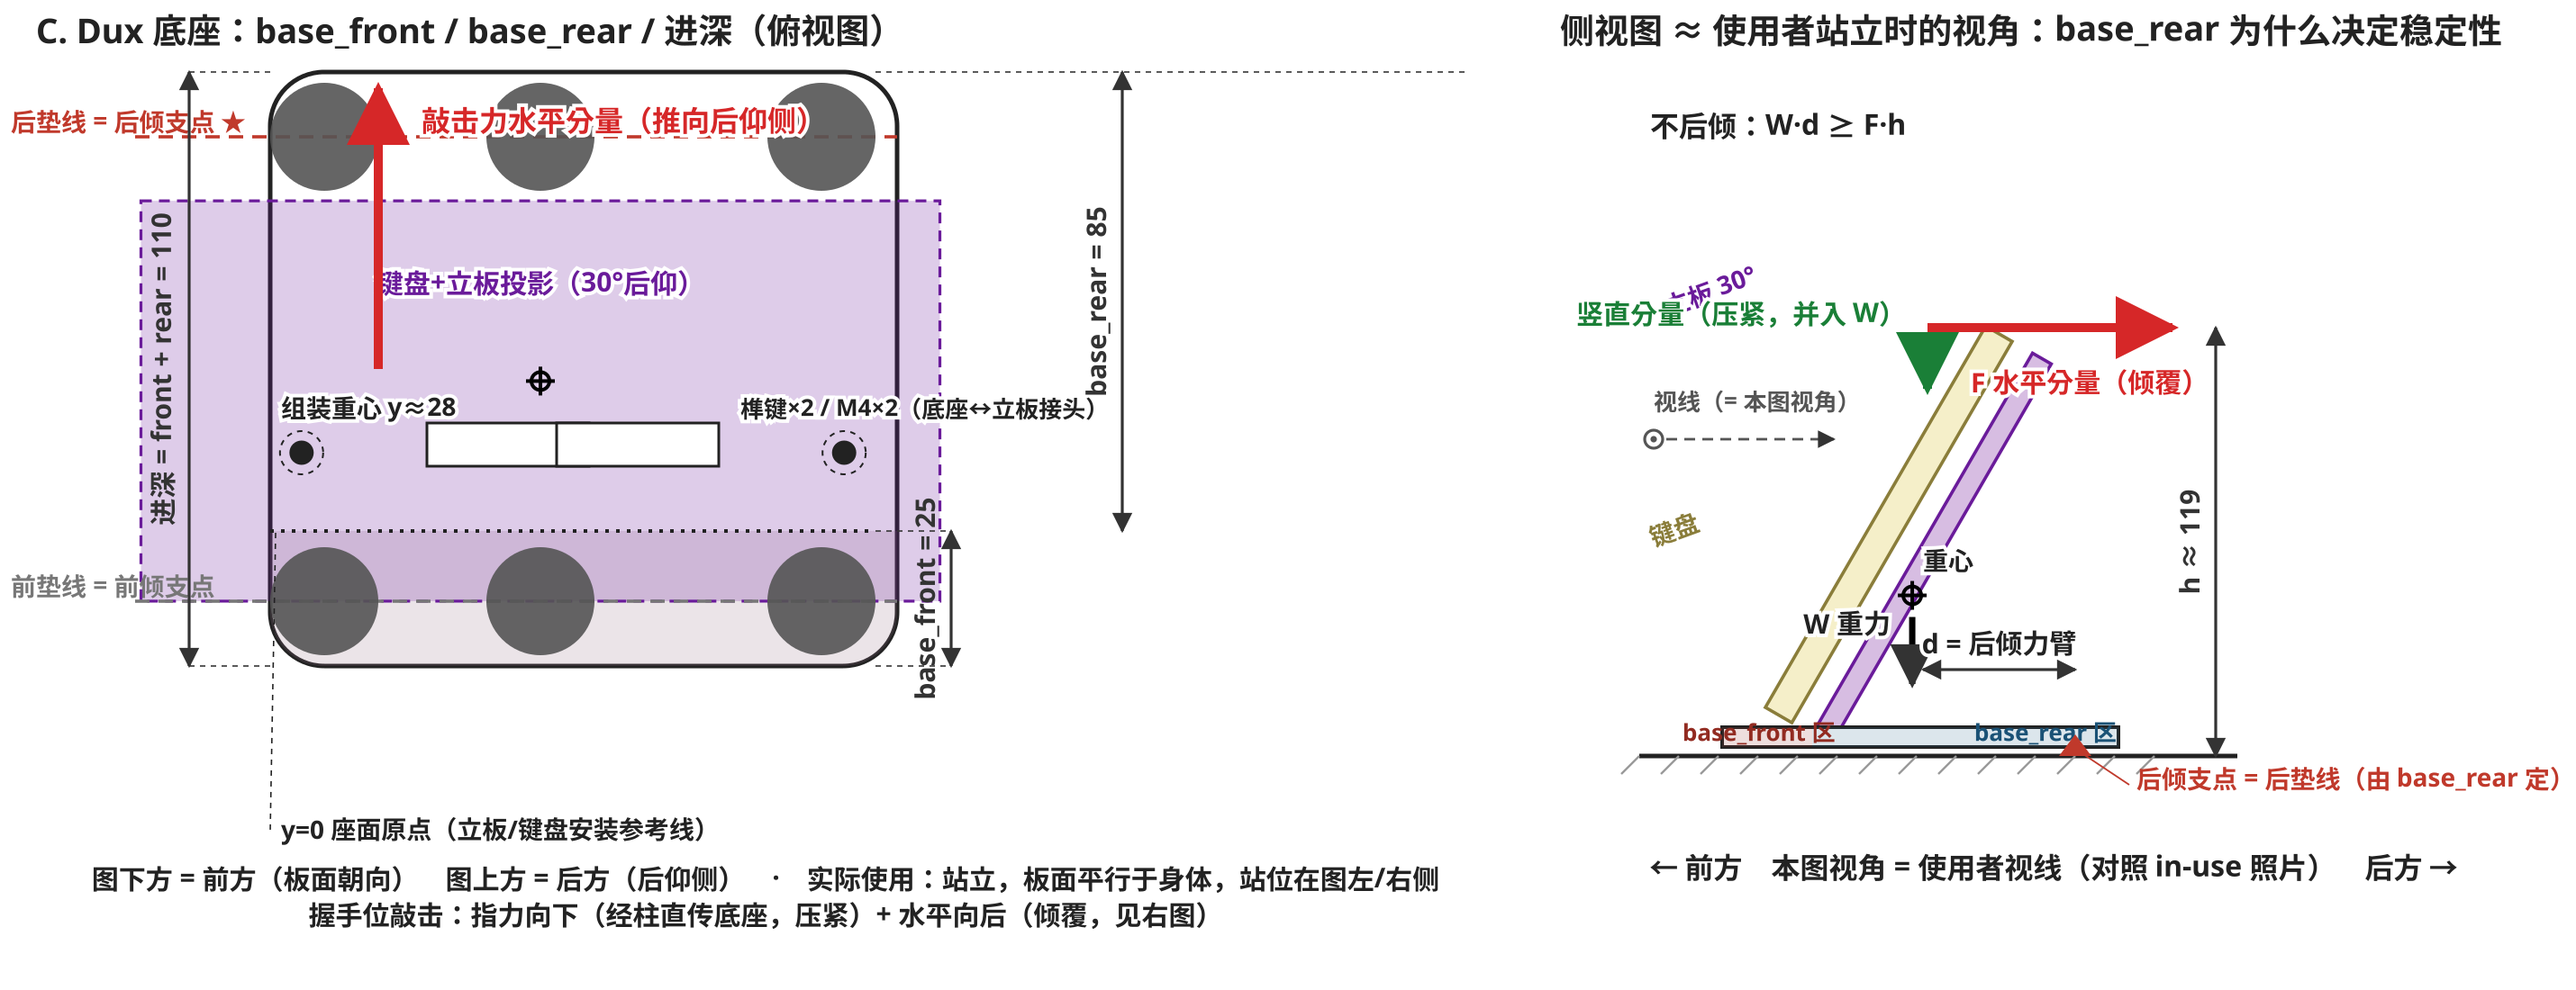
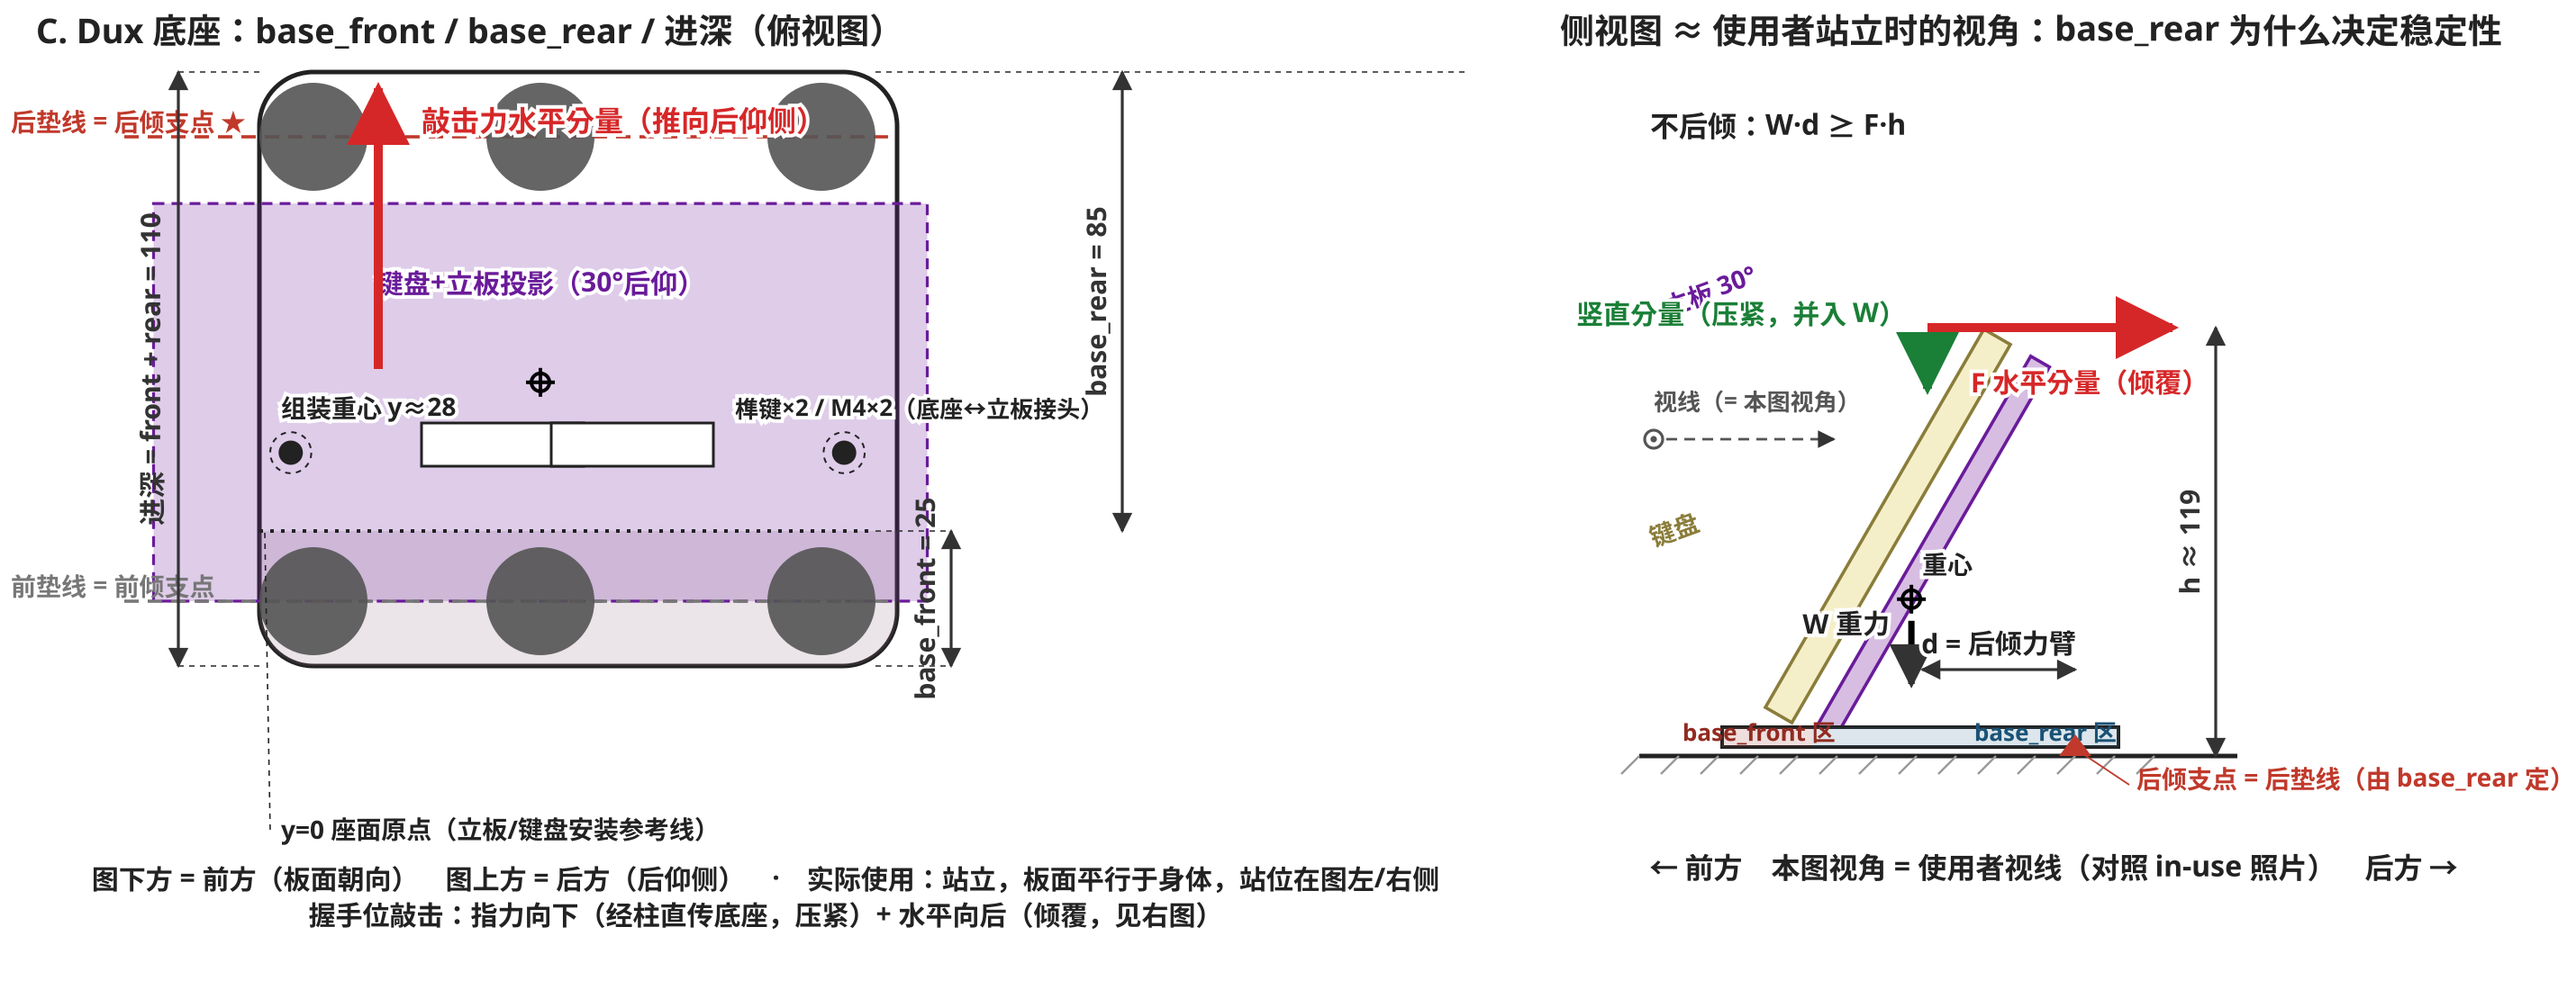
case/build123d: 删除底座胶垫定位凹槽,底面改平底
两级平底凹槽实印反复失败(凹槽顶桥掉丝污染胶合面),整体删除:
base_solid 不再切 6 个凹槽,底面为整块平面,pad_positions() 与
pad_d/pad_fit/pad_recess/pad_ring_w/pad_relief/pad_edge 随之移除,
仅留 pad_t = 1(自粘 TPU 垫装配时直接贴平底、贴边放置)。
base_dims_diagram 改为本地定义推荐贴垫位置(前后垫线不变)。

审计(out/stand_base.stl):下行面 128.6 cm² 全部 0°(床面 + 沉头
台肩),无 10° 以上悬空;逐层悬空仅 z=4.3 沉头台肩环桥 47.4 mm²,
无孤岛;bbox 118×110×14,80 cm³,质心 (5.0, 29.5, 3.3)。

diff --git a/case/build123d/stand.py b/case/build123d/stand.py
@@ -203,25 +203,13 @@ rib_foot = rib_t + 12  # wedge root depth along the seat (was rib_t + 8 =
 #            from vertical, self-supporting
 rib_top_flat = 2.5  # rib apex truncated to this width: the zero-thickness
 #            tip printed fragile and carries no load up there anyway
-pad_d = 20
-pad_fit = 0.1  # radial install clearance at the pocket mouth (0.2 on dia;
-#                separate from the joint_clear key fit below)
-pad_t = 1.0  # purchased self-adhesive TPU pad thickness
-pad_protrude = 0.4  # pad face above the desk face: keeps the pads the ONLY
-#                     desk contact (the tip-over pivots) across die-cut
-#                     thickness tolerance — TPU compression at keyboard
-#                     loads is microns, the tolerance is the driver
-pad_recess = pad_t - pad_protrude  # 0.6 pocket depth
-pad_ring_w = 5  # flat glue annulus at pad_recess; the centre is relieved
-#                pad_relief deeper, so droop/fall strands from the recess
-#                ceiling land in the relief, never under the pad's glue ring
-pad_relief = 1.0  # centre-recess headroom below the glue ring plane: the
-#                  recess ceiling is a short Ø10.2 bridge (was Ø20.4) and
-#                  its strands stop 1 mm short of the pad back
-pad_edge = 2  # pad circle edge to the slab straight edge; pads sit as far out
-#              as this allows — the tip-over pivots are the PAD contact lines,
-#              so every mm outward is a mm of tip lever (was 4: keep-out, not
-#              stability; 2 mm still leaves the 0.6 mm recess fully on flat)
+# The base underside is a plain flat face: the Ø20 two-level pad pockets kept
+# failing in print (recess-ceiling droop / strands fouling the glue face), so
+# they are gone. The 1 mm self-adhesive TPU pads now glue straight onto the
+# flat floor, placed by hand hugging the slab edges as before — the pad faces
+# sit pad_t proud of the desk, so the pads stay the ONLY desk contact (the
+# tip-over pivots), and every mm of outward placement is a mm of tip lever.
+pad_t = 1.0  # purchased self-adhesive TPU pad thickness (glued on flat)
 base_top_fillet = 2  # B-rep extra: round-over on the base top perimeter
 boot_inset = base_top_fillet  # boot setback per side: sit fully on the base
 #                              slab's flat top, inside the 2 mm perimeter
@@ -1024,18 +1012,6 @@ class Stand:
         h = (self.origin_z + y_top * self.ct - base_t + 1) / self.ct
         return max(2.0, min(haunch_h, h))
 
-    # -- keyboard-plate frame helpers -----------------------------------------
-
-    def pad_positions(self) -> list[tuple[float, float]]:
-        # per-side x: the slab IS the raw (asymmetric) post-need footprint,
-        # so each side's pad row hugs ITS slab edge — unaffected by the band
-        # clamp (the base does not change when the plate band is trimmed)
-        px_lo = self.slab_lo + base_r + pad_edge
-        px_hi = self.slab_hi - base_r - pad_edge
-        fy = self.y0 + base_r + pad_edge
-        ry = self.y1 - base_r - pad_edge
-        return [(px_lo, fy), (px_hi, fy), (0, fy), (px_lo, ry), (px_hi, ry), (0, ry)]
-
     # -- backplate + posts, plate-local frame (x right, y up, z out front) ----
 
     def _top_corner_cuts(self):
@@ -1387,30 +1363,8 @@ class Stand:
         ) * Box(self.bx, self.y1 - self.y0, base_t)
         base = fillet(base.edges().filter_by(Axis.Z), base_r)
         base = fillet(base.edges().group_by(Axis.Z)[-1], base_top_fillet)
-        for px, py in self.pad_positions():
-            # Pad pocket, two levels: a flat glue annulus (width pad_ring_w)
-            # at pad_recess inside the straight capture wall at
-            # pad_d + 2*pad_fit, plus a centre relief pad_relief deeper
-            # (vertical step — a narrowing cone would add a 45° overhang
-            # per layer where a hole wall is free). A former relief slot +
-            # glue lands kept the ceiling from sagging, but the lands stood
-            # 0.4 mm proud of the floor and kept the pad from seating —
-            # here the glue ring IS the floor, flush everywhere. Droop or
-            # detached strands from the recess ceiling fall through the
-            # relief and out of the pocket mouth instead of onto the glue
-            # face; the ring itself is a wall-anchored cantilever whose
-            # droop bends into the relief, away from the pad.
-            ro = pad_d / 2 + pad_fit
-            pocket = Pos(px, py, -EPS) * Cylinder(
-                ro, pad_recess + EPS, align=(Align.CENTER, Align.CENTER, MIN)
-            )
-            base -= pocket
-            relief = Pos(px, py, -EPS) * Cylinder(
-                ro - pad_ring_w,
-                pad_recess + pad_relief + EPS,
-                align=(Align.CENTER, Align.CENTER, MIN),
-            )
-            base -= relief
+        # no pad pockets — the underside stays flat (pockets kept failing in
+        # print); the TPU pads glue straight onto it at assembly
         base += joint_keys(self.band_mid)
         base -= joint_screw_bores(self.joint_screw_xs)
         base -= joint_screw_head_pockets(self.joint_screw_xs)

diff --git a/case/build123d/base_dims_diagram.py b/case/build123d/base_dims_diagram.py
@@ -56,7 +56,14 @@ def geometry() -> dict:
 
     tilt = math.radians(s.tilt)
     sn, ct = math.sin(tilt), math.cos(tilt)
-    pads = s.pad_positions()
+    # Ø20 TPU pads glue straight onto the flat underside (no pockets); the
+    # 2 mm edge inset is the recommended hand placement, as the pockets had it
+    pad_d, pad_e = 20, 2
+    px_lo = s.slab_lo + st.base_r + pad_e
+    px_hi = s.slab_hi - st.base_r - pad_e
+    fy = s.y0 + st.base_r + pad_e
+    ry = s.y1 - st.base_r - pad_e
+    pads = [(px_lo, fy), (px_hi, fy), (0, fy), (px_lo, ry), (px_hi, ry), (0, ry)]
     kb_t0 = POST_H + 1.5   # PCB face offset from the plate (posts + board)
     kb_t1 = kb_t0 + 8.5    # + keycap stack
 
@@ -72,7 +79,7 @@ def geometry() -> dict:
     return {
         'bx': s.bx, 'bx_lo': s.band_lo, 'bx_hi': s.band_hi,
         'y_front': s.y0, 'y_rear': s.y1,
-        'pads': pads, 'pad_d': st.pad_d,
+        'pads': pads, 'pad_d': pad_d,
         'pad_f': min(y for _, y in pads), 'pad_r': max(y for _, y in pads),
         'key_x': st.key_x, 'key_l': st.key_l,
         'key_xs': [s.band_mid + sx * st.key_x for sx in (-1, 1)],

diff --git a/docs/stand-design.md b/docs/stand-design.md
@@ -273,12 +273,9 @@ warning)——布局拥挤的正常结果,不是 bug。肋不再加宽
 的内缩足迹——完全坐在本步“顶面周边圆角 2”以内的平直区,底板本身仍
 保全带宽;立板底带钳制到靴座足迹、与靴座底部完全齐平——旧“板底带
 每侧刻意悬出靴座 2 mm”已废除(用户在背视图渲染上红框标出底角悬出))
-→ 竖直边圆角 10 → 顶面周边圆角 2 → 6 个胶垫凹槽(左右垫各自贴本侧
-带缘:`band_edge ∓ (base_r + pad_edge)`;两级平底直壁:Ø20.2 × 深 0.6,
-底为 5 mm 宽胶合环,中腔 Ø10.2 再深 `pad_relief` = 1.0 至总深 1.6——
-顶桥从整片 Ø20.4 拆成锚壁 5 mm 悬臂环 + Ø10.2 短桥,其掉丝落进让位腔
-或掉出坑口,够不到胶合面(直壁台阶而非 45° 渐缩:孔壁零悬空优于
-每层贴极限的锥面过盈);1 mm 胶垫高出底面 0.4)→ 并榫键(带中线 ±12)→ 减螺钉通孔与沉头孔(靴座缘内缩 5.8,由靴座缘派生)。
+→ 竖直边圆角 10 → 顶面周边圆角 2 →(胶垫凹槽已删除:两级平底结构
+实印反复失败,底面改为整块平底,`pad_t` = 1 的自粘 TPU 胶垫装配时
+直接贴在底面边缘处,垫面高出底面 1)→ 并榫键(带中线 ±12)→ 减螺钉通孔与沉头孔(靴座缘内缩 5.8,由靴座缘派生)。
 
 ### 6.3 `upright_solid`(世界系,顺序即打印姿态自上而下的层积)
 
@@ -343,7 +340,7 @@ warning)——布局拥挤的正常结果,不是 bug。肋不再加宽
 
 **调节旋钮**(改变造型/布局,改动后重跑审计即可):`plate_margin、
 taper_margin、haunch_d、rib_*、SHIFT_*、TILT、SET_ANGLES、
-post_h(CLI)、flange_t、pad_*`。`keyboard_drop = 30` 特殊:
+post_h(CLI)、flange_t`。`keyboard_drop = 30` 特殊:
 用户实测需求(“键盘下移 3cm”),整组安装图案沿板下移;净下移 =
 30 − lift,由真实板框高度约束自动封顶在 ~29.1(2 mm 底座顶余量)。
 曾用 20:当时最低柱背面沉孔口(含螺母摆动与 M4×12 尾部伸出的
@@ -389,12 +386,11 @@ post_h(CLI)、flange_t、pad_*`。`keyboard_drop = 30` 特殊:
 h ~170 → ~144 mm,等价老足迹 +20% 裕度,收到 85 后最坏工况持平
 (150 g 键盘、键帽顶水平推力:1.35 vs 1.40 N);静态质心投影 y ≈ 22,
 离后垫线 83 尚有 ~61 mm;再缩下限 y1 ≈ 56——再小后垫圈钻到靴座
-足迹下面);胶垫
-凹槽 `pad_recess = pad_t − pad_protrude = 0.6`(按 1 mm 胶垫留 0.4
-凸出,垫独占桌面接触;新增 `pad_ring_w` = 5 胶合环宽、`pad_relief` =
-1.0 中腔让位深,两级平底见 §6.2;曾加减胶槽 + 过桥凸台防顶面下垂,
-但凸台高出槽底 0.4 mm 使胶垫无法平贴,用户看过实物后废除——现让位是
-负空间,掉丝与胶合面永久隔离)。`base_side`/`upright_inset` 已删除:
+足迹下面);胶垫定位凹槽已删除(`pad_d/pad_fit/pad_recess/
+pad_ring_w/pad_relief/pad_edge` 随之移除):两级平底结构实印反复失败,
+底面改为整块平底,`pad_t = 1` 的自粘 TPU 胶垫装配时直接贴在底面
+边缘处(垫面高出底面 1 mm,垫独占桌面接触)。
+`base_side`/`upright_inset` 已删除:
 底座不再有固定宽度,slab 精确取底带足迹(靴座 = 底座 = 底带,
 见不变量 7)。
 
@@ -414,7 +410,7 @@ h ~170 → ~144 mm,等价老足迹 +20% 裕度,收到 85 后最坏工况持平
    仍 ≥ 8);
 5. **公差**:榫键/榫槽配合 0.2 mm(从 0.4 收紧,**先打 `--part joint`
    试块验证推入手感**);其余活动/配合面仍按各自设计值(螺钉通孔 4.5、
-   胶垫 pad_fit 0.1、螺母座 8.6);**切片端 X-Y 孔补偿保持
+   螺母座 8.6);**切片端 X-Y 孔补偿保持
    0**,否则 7.2 mm 腔被补正缩到 < 螺母 7.0,螺母放不进;
 6. **背板不接触 PCB**:`post_h` 是间隙;背板只升到最高柱顶 + `top_rim`;
 7. **底座 = 原始底带齐宽;靴座 = 原始底带每侧内缩 `boot_inset`;

diff --git a/case/build123d/README.md b/case/build123d/README.md
@@ -289,22 +289,19 @@ outline point z = 8.00`(底座顶 6 + 余量 2,约束恰好绑定);当前
 拉长抗后倾力臂)。
 
 抗后倾的支点是**胶垫接触线**而非板边:倾覆条件 `W·d ≥ F·h`,
-d = 重心到后垫线的距离,`base_rear` 与胶垫外伸量(`pad_edge`)各自
-1:1 贡献力臂;前/后垫线离板边只剩 `base_r + pad_edge` = 12 mm,
-垫圈凹槽仍完整落在底面平面上。`base_rear` 的定尺依据:100 是键盘
+d = 重心到后垫线的距离,`base_rear` 与胶垫外伸量各自 1:1 贡献力臂;
+前/后垫贴在板边圆角内侧(垫线离板边约 12 mm)。`base_rear` 的定尺依据:100 是键盘
 下移(drop 30)之前手拍的;下移后最坏接触高度(键盘最高角键帽)
 h ~170 → ~144 mm,等价于老足迹上白拿 ~20% 抗后倾裕度,收到 85
 后最坏工况裕度与老值持平(150 g 键盘、键帽顶水平推力的力模型下
-1.35 vs 1.40 N);静态质心投影 y ≈ 22,离后垫线(y1−2 = 83)仍有
+1.35 vs 1.40 N);静态质心投影 y ≈ 22,离后垫线(贴边放置,y1−2 = 83)仍有
 ~61 mm。再缩的下限在 y1 ≈ 56:再小后垫圈会钻到靴座足迹下面。
 
 ## 打印建议
 
-- **按建模姿态打印、无需支撑**:底座底面朝下——胶垫凹槽是两级平底
-  (5 mm 宽胶合环,中腔让位到 1.6 深,直壁台阶):悬空面只剩锚壁 5 mm
-  悬臂环和 Ø10.2 短桥,实印中 Ø20.4 整片桥的掉丝如今落进让位腔或直接
-  掉出坑口,到不了胶合面(曾用减胶槽 + 过桥凸台,但凸台高出槽底
-  0.4 mm,胶垫压不平,实印后废除);
+- **按建模姿态打印、无需支撑**:底座底面朝下,底面是一整块平面——
+  胶垫定位凹槽(两级平底)因实印反复失败已删除,1 mm 自粘 TPU 胶垫
+  装配时直接贴在平底上;
   螺丝沉孔台肩是 1.55 mm 宽
   的环形小桥接(实印验证;沉孔 Ø8 → 7.6:实印 8.0 对用户的 7.1 头
   空圈偏大,7.6 减半同时仍容忍打印收缩与拧紧偏心);立板座面朝下——柱顶实心朝上、
@@ -364,14 +361,10 @@ h ~170 → ~144 mm,等价于老足迹上白拿 ~20% 抗后倾裕度,收到 85
    3.4)+ 1 × M4 自攻;备选
    `--attach tap` 自攻方案(全部 4 孔柱内留 Ø3.8 底孔,背面直通到
    柱顶,直接自攻,免螺母);
-3. **防滑**:底座底面有 6 个两级平底定位凹槽(Ø20.2 定位直壁,深
-   0.6 mm 处是 4 mm 宽胶合环,中腔再深 1.0 mm 至 1.6 直壁台阶),
-   1 mm 自粘 TPU 软垫粘在胶合环上,垫面高出底面约 0.4 mm——胶垫独占
-   桌面接触(倾覆支点即垫接触线),也不吃裁切厚度公差;卡缘扣住垫边
-   防蠕移。胶合环整圈平整、无任何凸台(中腔让位是负空间);桥接下垂
-   或脱落的丝落进让位腔/坑口,永远进不了胶合面——曾加减胶槽 + 过桥
-   凸台防下垂,但凸台让胶垫无法平贴,用户看过实物凸起后拍板去平。
-   垫在中腔上方无胶无支撑,但键盘载荷下 TPU 中央挠度仅微米级,可忽略。
+3. **防滑**:底座底面是平底(原两级平底定位凹槽因实印反复失败已删),
+   6 个 Ø20 的 1 mm 自粘 TPU 软垫直接贴在底面边缘处——贴边放置保证
+   倾覆力臂,垫面高出底面 1 mm,胶垫独占桌面接触(倾覆支点即垫
+   接触线)。垫靠全胶面粘贴,键盘载荷下 TPU 中央挠度仅微米级,可忽略。
 
 ## 嘉立创代打
 
